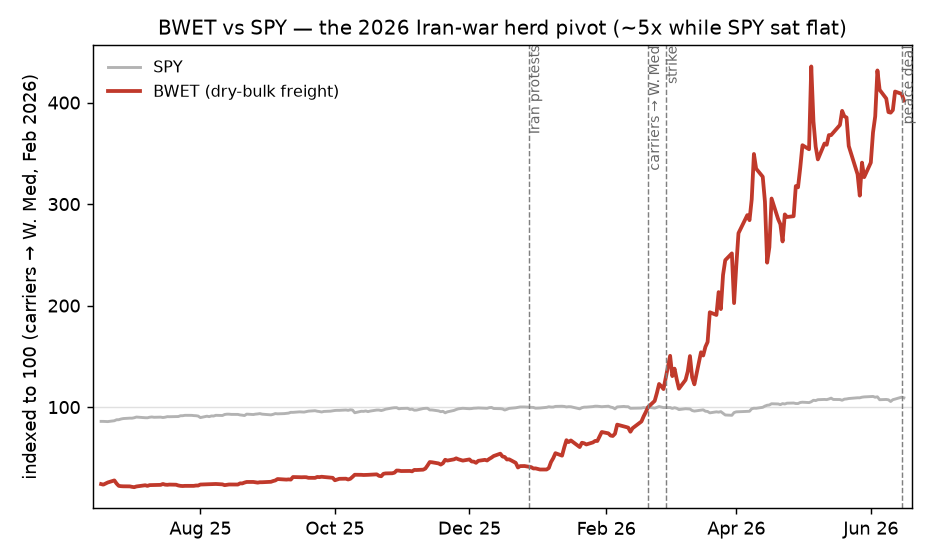
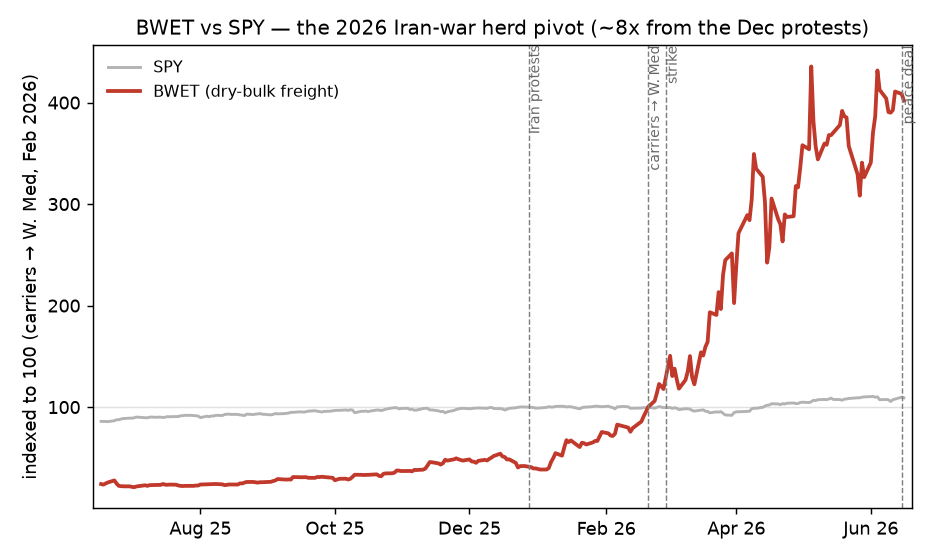
README: headline BWET multiple as ~8x from the Dec protests (the spark)
Anchor the move to where it began -- the late-Dec 2025 protests/armada, the
non-obvious early trigger -- rather than the obvious Feb carrier move. ~8x from
the protests marker to the May peak (measurable on the chart); ~5x kept as the
post-carrier secondary. Reinforces the thesis: the early trigger pays more than
waiting for the headline.

Changed region(s): [[0.1239, 0.0304, 0.9295, 0.0608]]

diff --git a/scripts/plot_shipping.py b/scripts/plot_shipping.py
@@ -40,7 +40,7 @@ def main():
         ax.axvline(x, color="0.5", ls="--", lw=0.8)
         ax.text(x, top, " " + lbl, rotation=90, va="top", ha="left", fontsize=7.5, color="0.4")
     ax.axhline(100, color="0.88", lw=0.8, zorder=0)
-    ax.set_title("BWET vs SPY — the 2026 Iran-war herd pivot (~5x while SPY sat flat)", fontsize=11)
+    ax.set_title("BWET vs SPY — the 2026 Iran-war herd pivot (~8x from the Dec protests)", fontsize=11)
     ax.set_ylabel("indexed to 100 (carriers → W. Med, Feb 2026)")
     ax.legend(frameon=False, fontsize=9, loc="upper left")
     ax.xaxis.set_major_locator(mdates.MonthLocator(interval=2))

diff --git a/README.md b/README.md
@@ -23,7 +23,7 @@ Every triggering event spawns a tree of downstream implications, and the tree ha
 
 The canonical example, from the move that motivated this family (the 2026 Trump–Iran war): **aircraft carriers steam to the western Mediterranean _(Feb 2026)_ → the market reads a rising risk that the Strait of Hormuz is choked _(Mar 2026)_ → tanker rates spike _(Mar 2026)_ → dry-bulk rates follow _(spring 2026)_.**
 
-The ticker that motivated this project is **BWET** — a dry-bulk freight ETF, the far end of that chain. In the 2026 Trump–Iran war it ran **~5x** from the late-February carrier move to its May peak while SPY sat flat — and the run had sparked weeks earlier, in late December 2025, when Iran's currency collapsed into mass protests and Trump aimed an "armada" at the Gulf. A four-month herd pivot, telegraphed start to finish by Trump's tweets. The edge isn't knowing BWET will 5x — it's reading the trigger early enough to be *on* it during the pivot rather than after (even the back half was ~2x). The May plateau is the three-tier model in one line: as the tweets turned toward peace, smart money rotated out to greener pastures while the slow herd kept backfilling. The curator's job is to find the *next* BWET — prune the tree off a fresh trigger down to the deep instrument the herd will slow-walk toward.
+The ticker that motivated this project is **BWET** — a dry-bulk freight ETF, the far end of that chain. In the 2026 Trump–Iran war it ran **~8x** from its spark — Iran's late-December 2025 currency collapse and mass protests, which drew Trump's "armada" toward the Gulf — to its May peak, while SPY sat flat (and ~5x of that came after the February carrier move alone). A months-long herd pivot, telegraphed start to finish by Trump's tweets. The edge isn't knowing BWET will run 8x — it's reading the trigger early enough to be *on* it during the pivot rather than after (even the back half was ~2x). The May plateau is the three-tier model in one line: as the tweets turned toward peace, smart money rotated out to greener pastures while the slow herd kept backfilling. The curator's job is to find the *next* BWET — prune the tree off a fresh trigger down to the deep instrument the herd will slow-walk toward.
 
 ![BWET vs SPY across the 2026 Iran war](assets/bwet_vs_spy.png)
 